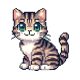
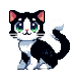
변수 수정

diff --git a/wayToSchool.js b/wayToSchool.js
@@ -95,9 +95,9 @@ class WayToSchool {
     WayToSchool.wtsFlowerHydrangea = loadImage('./assets/images/objects/wayToSchoolFlower2.png');
     WayToSchool.wtsFlowerLily = loadImage('./assets/images/objects/wayToSchoolFlower3.png');
     WayToSchool.wtsCat = loadImage('./assets/images/objects/wayToSchoolCat0.png');
-    WayToSchool.wtsCatCookie = loadImage('./assets/images/objects/wayToSchoolCat3.png');
-    WayToSchool.wtsCatFish = loadImage('./assets/images/objects/wayToSchoolCat1.png');
-    WayToSchool.wtsCatCheese = loadImage('./assets/images/objects/wayToSchoolCat2.png');
+    WayToSchool.wtsCatCookie = loadImage('./assets/images/objects/wayToSchoolCat1.png');
+    WayToSchool.wtsCatFish = loadImage('./assets/images/objects/wayToSchoolCat2.png');
+    WayToSchool.wtsCatCheese = loadImage('./assets/images/objects/wayToSchoolCat3.png');
     WayToSchool.wtsCycle = loadImage('./assets/images/objects/wayToSchoolCycle0.png');
     WayToSchool.wtsCycleRed = loadImage('./assets/images/objects/wayToSchoolCycle1.png');
     WayToSchool.wtsCycleChild = loadImage('./assets/images/objects/wayToSchoolCycle2.png');

diff --git a/endingScene.js b/endingScene.js
@@ -241,7 +241,7 @@ class EndingScene {
     textSize(18);
     textAlign(LEFT, CENTER);
     let combinedText = this.displayedTexts.concat(this.displayedText).join("\n");
-    text(combinedText, width/2 + 100, height/2 - 18);
+    text(combinedText, width/2 + 100, height/2 - 40);
   }
 
   updateDisplayedText() {
